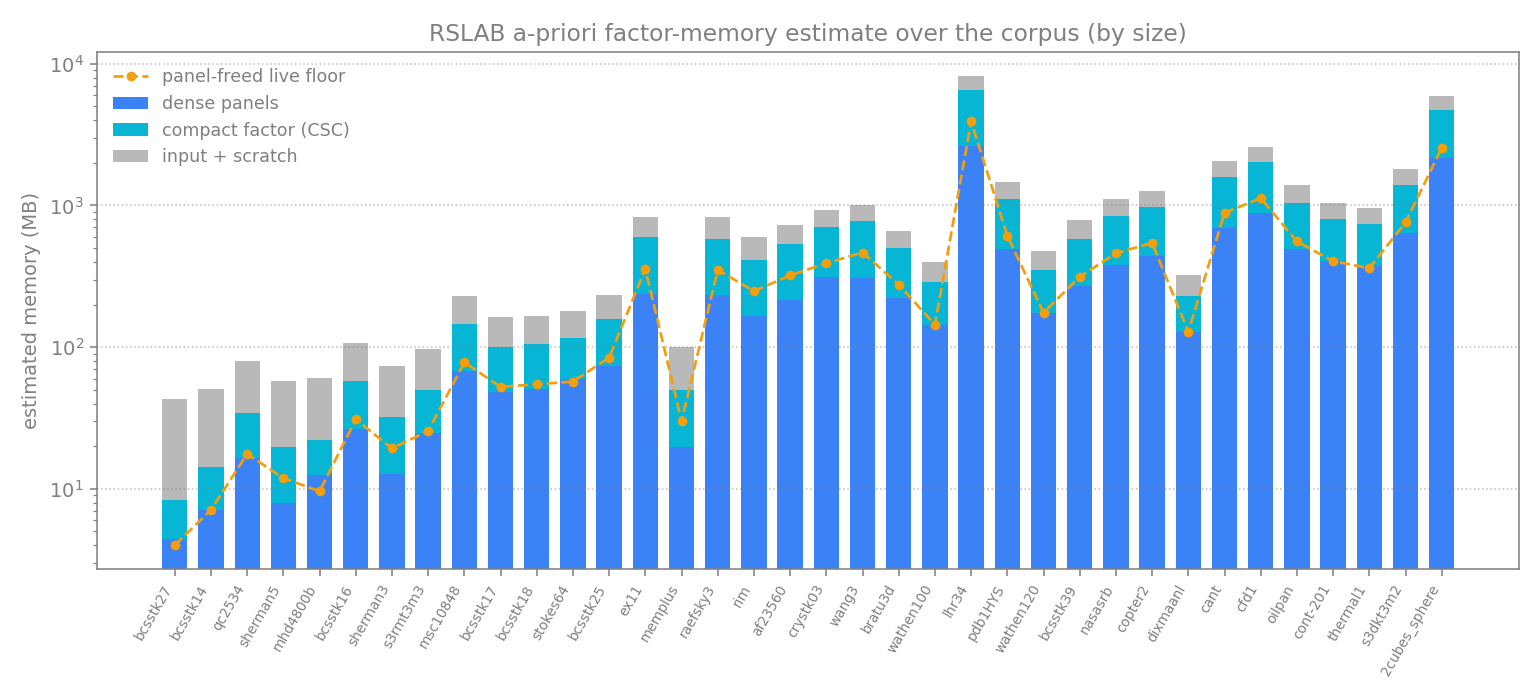
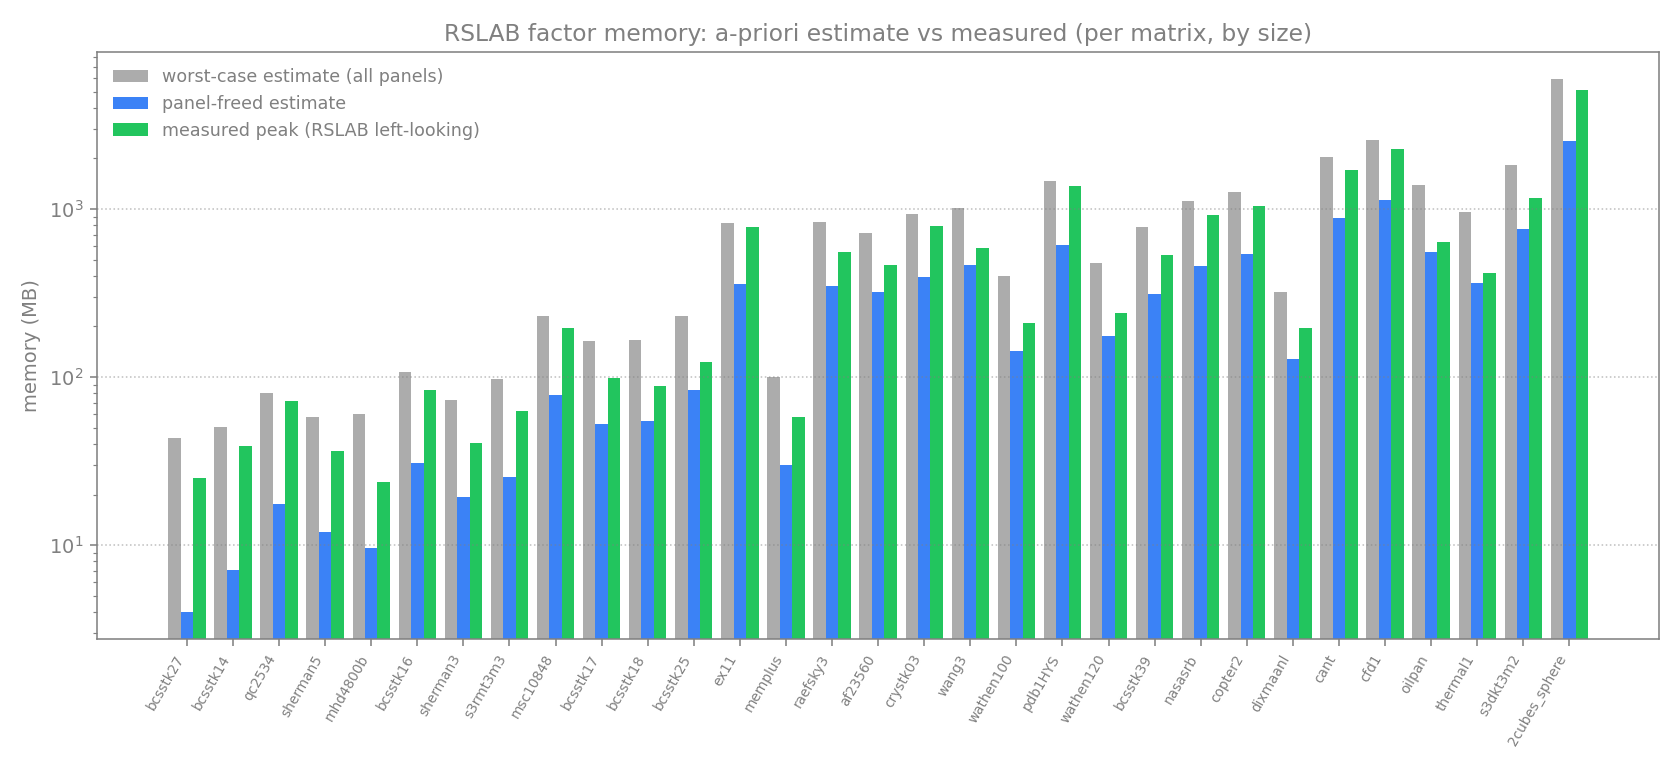
memory_breakdown: gruppierte Balken (worst-case/estimate/measured) statt log-gestapelt - Estimator-Validierung

diff --git a/benches/corpus_breakdown.py b/benches/corpus_breakdown.py
@@ -73,34 +73,54 @@ def wct_breakdown(corpus_path, outdir):
     print(f"wrote {outdir / 'wct_breakdown.png'}")
 
 
-def memory_breakdown(est_path, outdir):
+def memory_breakdown(est_path, corpus_path, outdir):
+    """Grouped (not stacked - this is a log axis) factor-memory comparison per
+    matrix: the conservative a-priori upper bound (all panels resident), the
+    a-priori panel-freed estimate (what the low-memory path should hold), and the
+    measured RSLAB left-looking peak. The measured bar should sit between the two
+    estimates - validating that the estimate brackets reality and never
+    under-predicts."""
     if not Path(est_path).exists():
         print(f"[memory] {est_path} missing - run bench_suite with RLA_BENCH_ESTIMATE=1 family=corpus")
         return
-    recs = [json.loads(l) for l in open(est_path) if l.strip()]
-    recs = sorted(recs, key=lambda r: r["n"])
-    names = [r["name"] for r in recs]
+    est = {r["name"]: r for r in (json.loads(l) for l in open(est_path) if l.strip())}
+    # Measured RSLAB left-looking peak from the memory pass.
+    measured = {}
+    if Path(corpus_path).exists():
+        for r in (json.loads(l) for l in open(corpus_path) if l.strip()):
+            if r.get("solver") == "ll" and r.get("metric") == "mem" and r.get("mem_mb", 0) > 0:
+                measured[r["name"]] = r["mem_mb"]
+    # Keep matrices with all three numbers, sorted by size.
+    rows = [est[n] for n in est if n in measured]
+    rows.sort(key=lambda r: r["n"])
+    if not rows:
+        print("[memory] no matrices with estimate + measured peak")
+        return
+    names = [r["name"] for r in rows]
     x = np.arange(len(names))
-    panels = [r["panels_mb"] for r in recs]
-    factor = [r["factor_mb"] for r in recs]
-    scratch = [r["scratch_mb"] for r in recs]
-    floor = [r["freed_floor_mb"] for r in recs]
-    fig, ax = plt.subplots(figsize=(11, 5))
-    ax.bar(x, panels, 0.7, label="dense panels", color="#3b82f6")
-    ax.bar(x, factor, 0.7, bottom=panels, label="compact factor (CSC)", color="#06b6d4")
-    ax.bar(x, scratch, 0.7, bottom=[p + f for p, f in zip(panels, factor)],
-           label="input + scratch", color=GRAY, alpha=0.55)
-    ax.plot(x, floor, "o--", color="#f59e0b", label="panel-freed live floor", lw=1.4, ms=4)
-    ax.set_title("RSLAB a-priori factor-memory estimate over the corpus (by size)")
-    ax.set_ylabel("estimated memory (MB)")
+    worst = [r["transient_mb"] for r in rows]
+    floor = [r["freed_floor_mb"] for r in rows]
+    meas = [measured[r["name"]] for r in rows]
+    w = 0.27
+    fig, ax = plt.subplots(figsize=(12, 5.5))
+    ax.bar(x - w, worst, w, label="worst-case estimate (all panels)", color=GRAY, alpha=0.65)
+    ax.bar(x, floor, w, label="panel-freed estimate", color="#3b82f6")
+    ax.bar(x + w, meas, w, label="measured peak (RSLAB left-looking)", color="#22c55e")
+    ax.set_title("RSLAB factor memory: a-priori estimate vs measured (per matrix, by size)")
+    ax.set_ylabel("memory (MB)")
     ax.set_yscale("log")
     ax.set_xticks(x)
-    ax.set_xticklabels([f"{n}" for n in names], rotation=60, ha="right", fontsize=7)
+    ax.set_xticklabels(names, rotation=60, ha="right", fontsize=7)
     ax.grid(True, axis="y", ls=":", alpha=0.5)
-    ax.legend(fontsize=9, frameon=False)
+    ax.legend(fontsize=9, frameon=False, loc="upper left")
     fig.tight_layout()
     fig.savefig(outdir / "memory_breakdown.png", dpi=140, transparent=True)
     print(f"wrote {outdir / 'memory_breakdown.png'}")
+    # Console: measured vs the two estimates (the bracketing check).
+    import math
+    over = [w_ / m for w_, m in zip(worst, meas) if m > 0]
+    print(f"  worst-case / measured: geomean {math.exp(sum(map(math.log, over))/len(over)):.2f}x "
+          f"(should be >= 1; conservative upper bound, {len(rows)} matrices)")
 
 
 def main():
@@ -108,7 +128,7 @@ def main():
     est = Path(sys.argv[2]) if len(sys.argv) > 2 else Path("benches/bench_out/corpus_estimate.jsonl")
     setup()
     wct_breakdown(corpus, corpus.parent)
-    memory_breakdown(est, corpus.parent)
+    memory_breakdown(est, corpus, corpus.parent)
 
 
 if __name__ == "__main__":

diff --git a/README.md b/README.md
@@ -127,14 +127,17 @@ depending on the fill profile - more for low-fill 2D/banded (analysis ~20% of a
 solve), less for factor-dominated 3D (~5%) - and is the natural workflow for
 value sweeps.
 
-### A-priori memory estimate
+### A-priori memory estimate vs measured
 
-![Memory breakdown](benches/bench_out/memory_breakdown.png)
+![Memory estimate vs measured](benches/bench_out/memory_breakdown.png)
 
-RSLAB's a-priori factor-memory estimate over the corpus (no factoring required):
-dense panels + compact factor + input/scratch, with the panel-freed live floor
-marked. The estimate is within 1.0x to 1.2x of measured peak and does not
-under-predict - usable for fail-fast scheduling before any numeric work.
+RSLAB computes a factor-memory estimate from the symbolic analysis alone, before
+any numeric work. Per matrix, three grouped bars: the conservative upper bound
+(all dense panels resident at once + factor + input/scratch), the panel-freed
+estimate (what the low-memory schedule should hold), and the **measured**
+left-looking peak. The measured peak sits between the two estimates, and the
+upper bound stays above it (geomean ~1.5x, never under-predicting) - so it is
+safe to compare against available RAM for fail-fast scheduling before factoring.
 
 ### Real MoM matrices
 